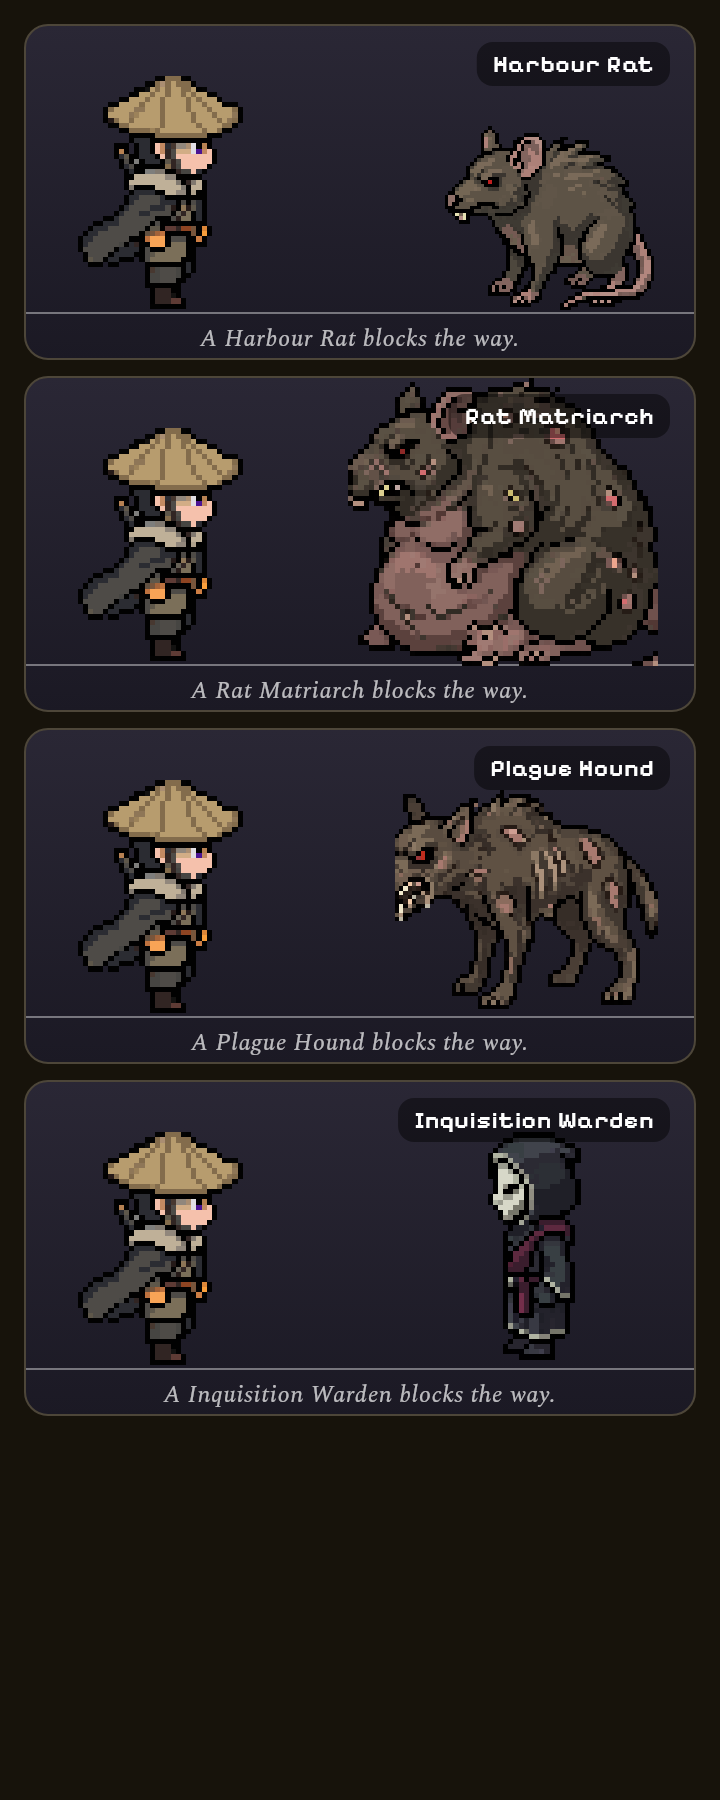
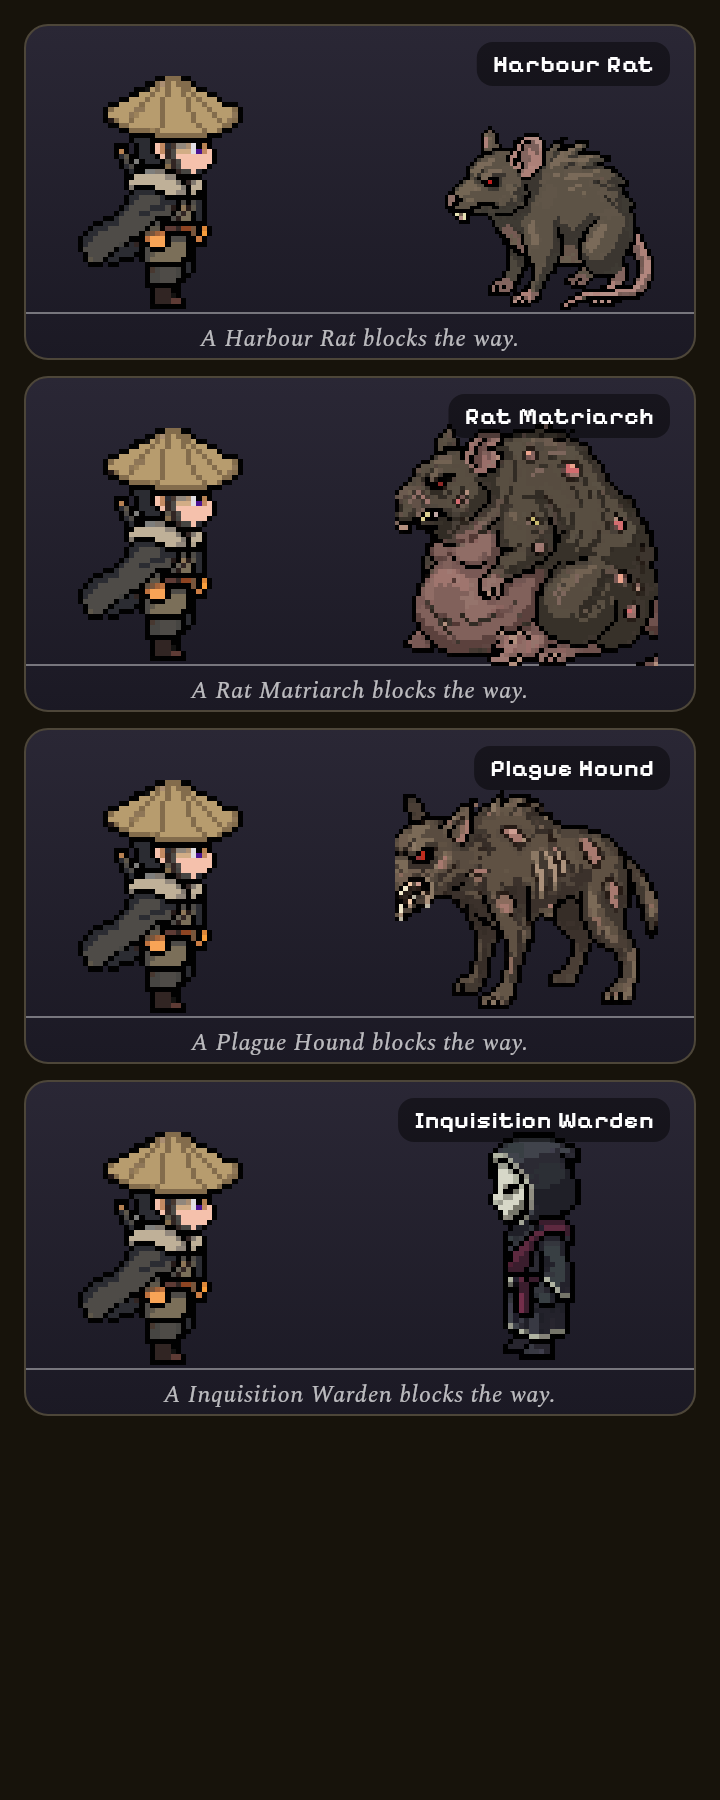
The matriarch stands at 0.85 so her name clears her head
Claude-Session: https://claude.ai/code/session_019ETFw2Y7wpHSXWG5mmACty

Changed region(s): [[0.4583, 0.1867, 0.9167, 0.3733]]

diff --git a/lib/widgets/fight_sprites.dart b/lib/widgets/fight_sprites.dart
@@ -79,7 +79,7 @@ const String _fighters = 'assets/visuals/fighters';
 /// side views (art/pixellab/sewer).
 const Map<String, ({int size, int foot, double scale})> _enemyFrames = {
   'rat': (size: 60, foot: 1, scale: 0.7),
-  'rat_matriarch': (size: 60, foot: 4, scale: 1.0),
+  'rat_matriarch': (size: 60, foot: 4, scale: 0.85),
   'plague_hound': (size: 60, foot: 2, scale: 0.85),
 };
 

diff --git a/assets/visuals/fighters/README.md b/assets/visuals/fighters/README.md
@@ -12,7 +12,7 @@ Used by `lib/widgets/fight_sprites.dart` (`enemyFightSprite`: which enemy gets w
 | `inquisition_soldier_02` | Inquisition Soldier_02 | `inquisition_soldier` |
 | `inquisition_soldier_03` | Inquisition Soldier_03 | `inquisition_auxiliary` |
 | `rat` | Big rat monster, Idle (`art/pixellab/sewer/rat`) | `harbor_rat` |
-| `rat_matriarch` | Rat matriarch (`art/pixellab/sewer/rat_matriarch`) | `rat_matriarch` (clipped at the frame edge: needs a bigger canvas) |
+| `rat_matriarch` | Rat matriarch (`art/pixellab/sewer/rat_matriarch`) | `rat_matriarch` (her pups are cut at the art's own edge) |
 | `plague_hound` | Plague Hound (`art/pixellab/sewer/plague_hound`) | `plague_hound` |
 
 The sewer ones are 60 x 60 side views: `lib/widgets/fight_sprites.dart` keeps a frame size, foot inset and draw scale for them (`_enemyFrames`).

diff --git a/CHANGELOG.md b/CHANGELOG.md
@@ -17,7 +17,7 @@ isn't reconstructable from git history alone.
   figures are 48 x 48). A sprite has its own frame size and a draw scale, so
   the rat stands smaller than the ronin and the hound a little smaller than
   its frame. Three idle frames only (about 6 KB); the walk strips stay in
-  `art/`. The matriarch's body is clipped by its canvas and needs a bigger one.
+  `art/`. The matriarch's pups are cut at the art's own edge (a bigger canvas cannot bring them back); on the stage it reads as a crop.
 
 ## [1.888.0+924]
 
